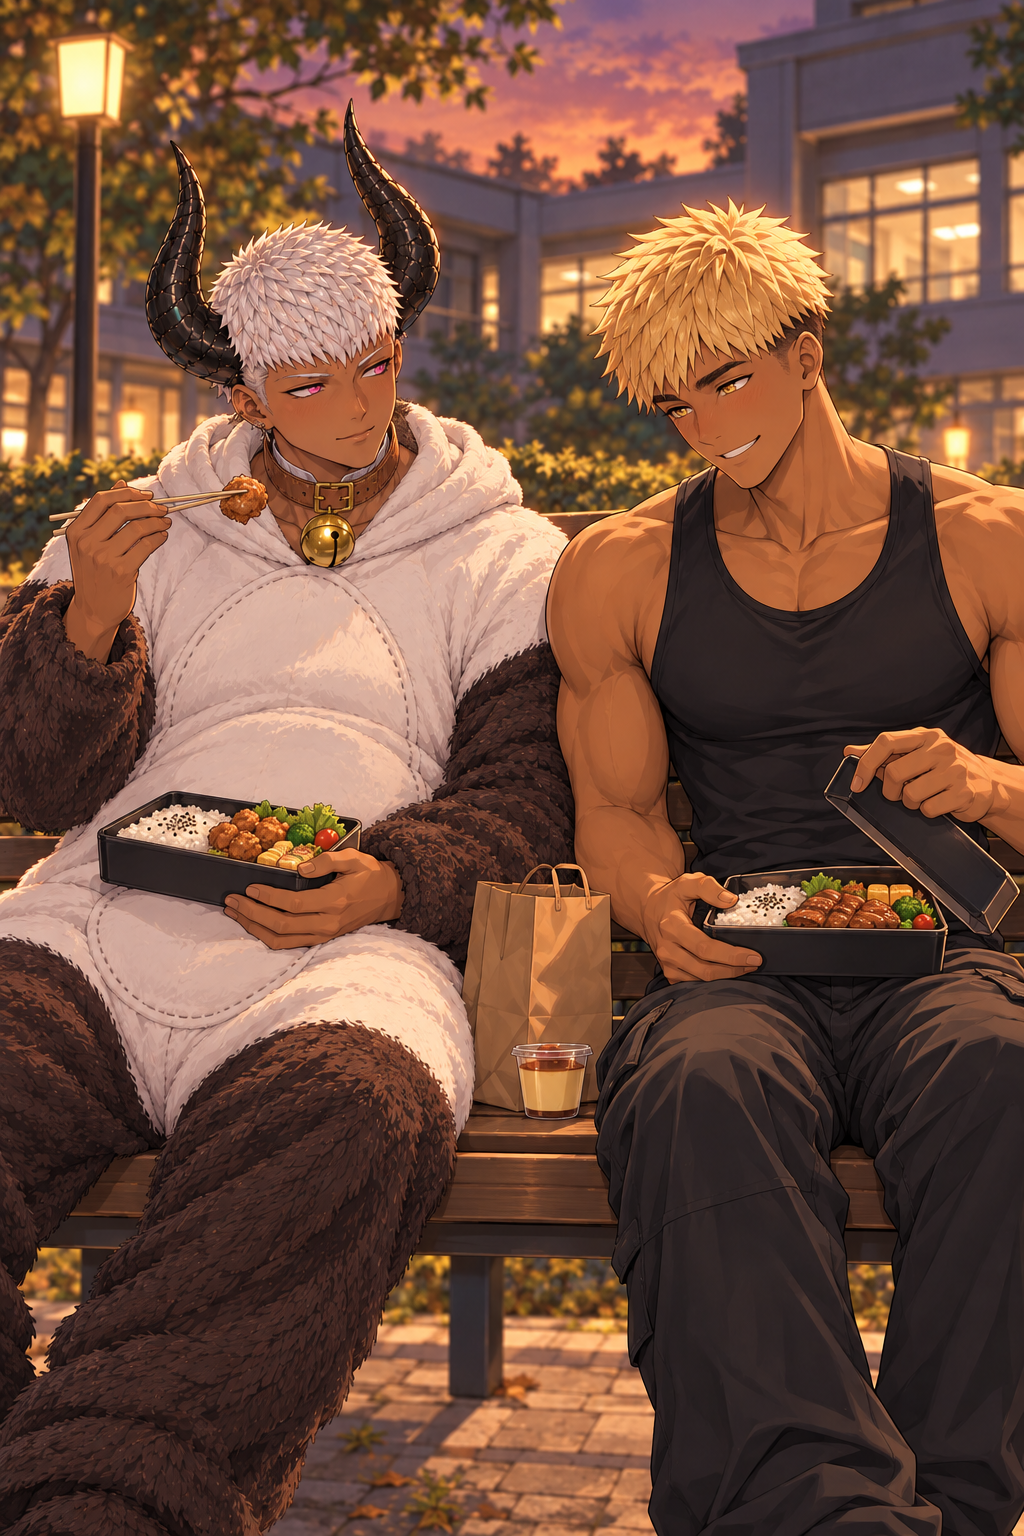
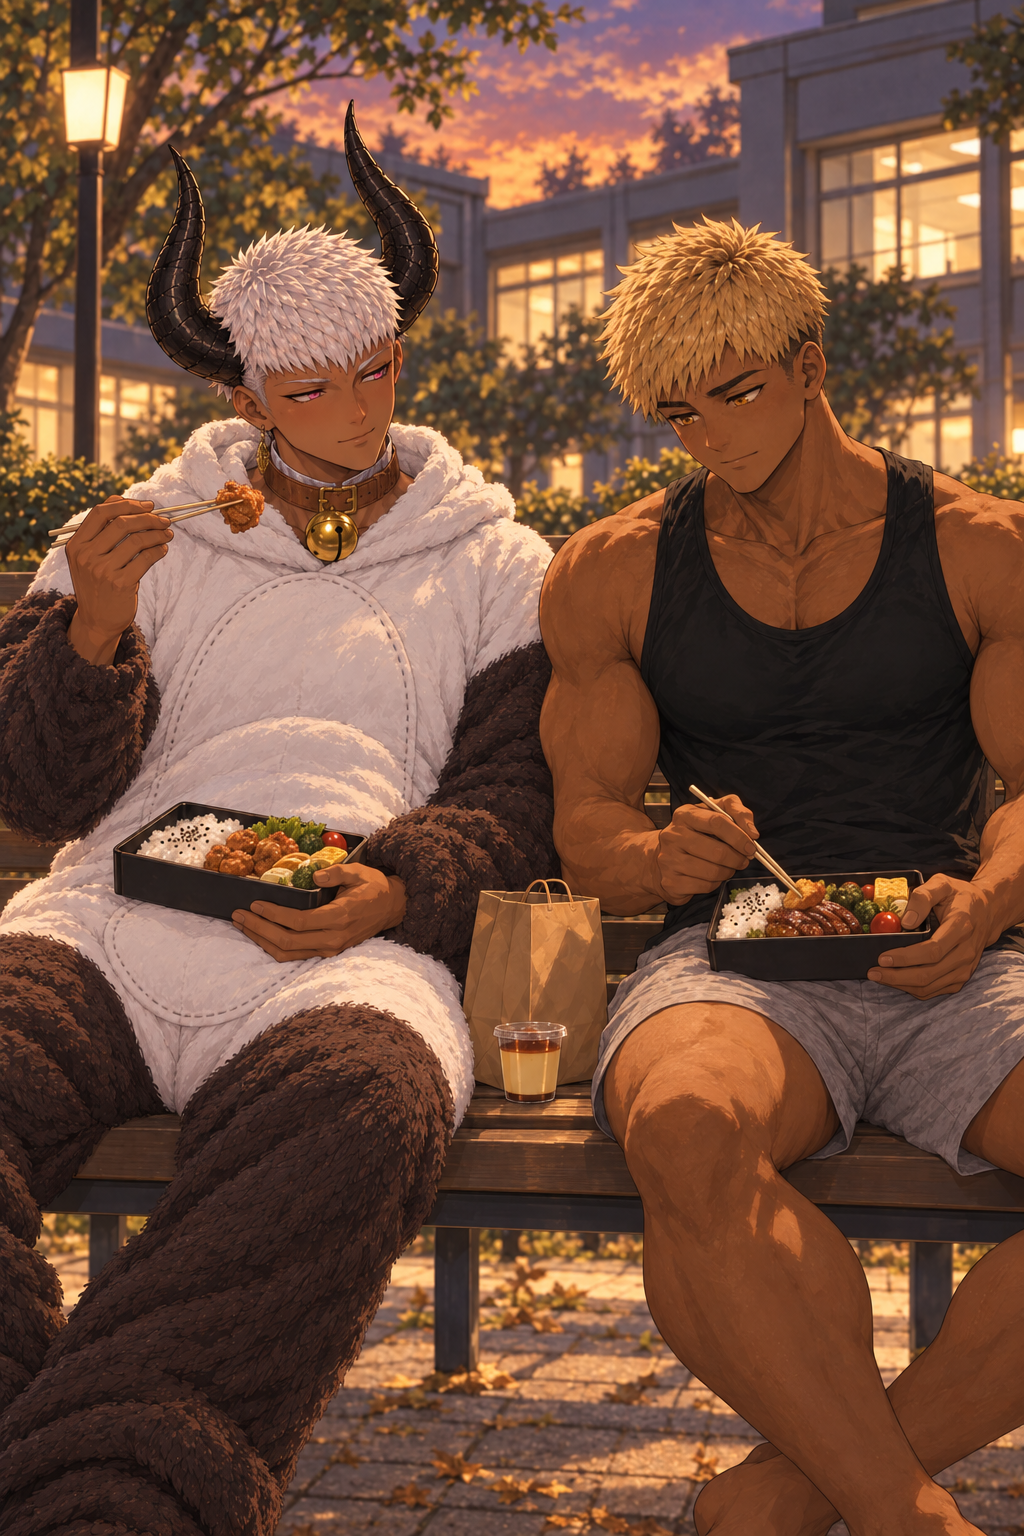
Match Hidden dinner character faces to user references

diff --git a/docs/hidden_character_guide.md b/docs/hidden_character_guide.md
@@ -31,4 +31,4 @@
 
 ## 일러스트 기준
 
-사용자가 제공한 강가 셀카의 얼굴을 기준으로 한다. 짧은 흰색 머리, 분홍 눈, 구릿빛 피부, 길고 위로 휘어진 검은 뿔 두 개, 갈색 목 벨트와 금색 방울, 사용자가 확정한 샴고양이 뚱냥이 잠옷(내린 후드, 크림색 둥근 배와 타원형 봉제선, 짙은 갈색 복슬복슬한 소매·다리)을 유지한다. 긴 흰 가운으로 그리지 않는다. 능청스럽고 살짝 거만한 눈매가 핵심이다. 근떡존은 `public/char_geonddeokjon.png`의 짧은 금발, 금빛 눈, 구릿빛 피부, 근육질 체형을 기준으로 한다. 5화 식사 장면은 두 캐릭터의 얼굴 원본을 함께 참고한다.
+사용자가 제공한 강가 셀카의 얼굴을 기준으로 한다. 짧은 흰색 머리, 분홍 눈, 구릿빛 피부, 길고 위로 휘어진 검은 뿔 두 개, 갈색 목 벨트와 금색 방울, 사용자가 확정한 샴고양이 뚱냥이 잠옷(내린 후드, 크림색 둥근 배와 타원형 봉제선, 짙은 갈색 복슬복슬한 소매·다리)을 유지한다. 긴 흰 가운으로 그리지 않는다. 능청스럽고 살짝 거만한 눈매가 핵심이다. 근떡존 얼굴의 최신 기준은 사용자가 제공한 `1000095578.jpg`(거실에서 사과를 깎는 금발 근떡존)다. 촘촘한 짧은 금발, 두꺼운 눈썹, 차분한 금빛 눈, 묵직한 얼굴형과 턱, 구릿빛 피부와 두꺼운 근육질 체형을 유지한다. 갸름하고 뾰족한 얼굴이나 이를 드러내는 능글맞은 웃음으로 바꾸지 않는다. 히든의 최신 얼굴·의상 기준은 `1000096146.jpg`(밤 강변의 고양이 잠옷 셀카)다. 5화 식사 장면은 이 두 참고 그림의 얼굴과 부드러운 회화적 명암을 함께 기준으로 한다.
